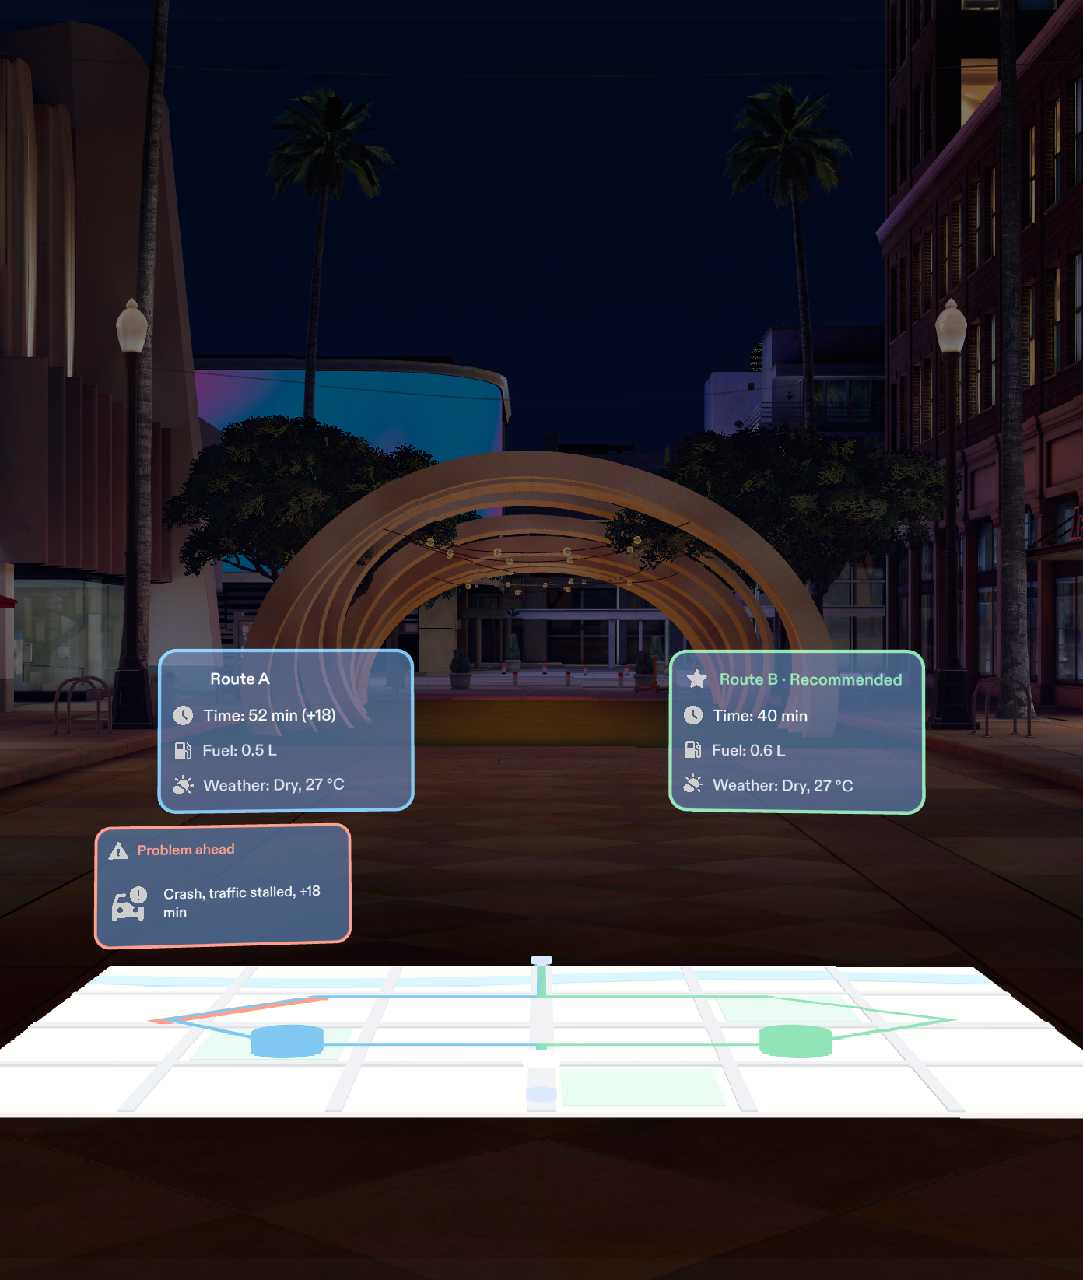
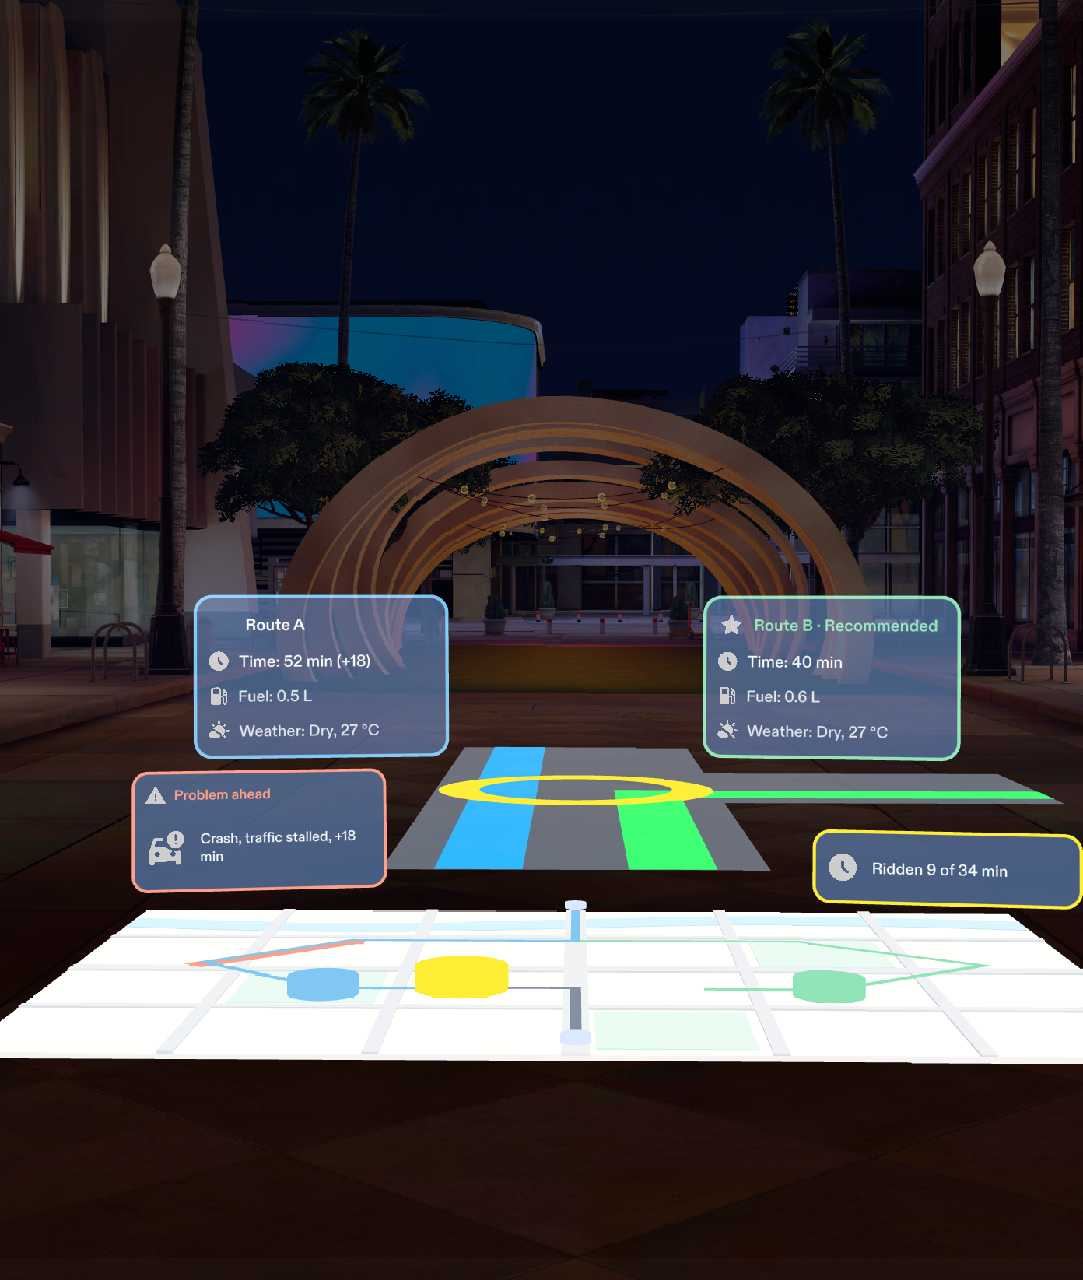
docs: describe the progress marks and road view in the README
The README now covers the whole of revision 1: nine LEAF tests (C1 to
C9) with the measured results, the progress marks and the mock street
in the walkthrough, the later alert point, and the known limitations
(the raincoat reminder covers part of the street, no glow on a reroute,
the street is a stand-in). The roadmap marks revision 1 done.

Files changed:
- README.md: status, walkthrough, tests table, architecture, decisions, limitations, roadmap
- docs/media/stopped-crash.jpg: retaken with the progress marks and road view
- docs/media/stopped-floating-map.jpg: retaken on the evening trip with the road view
- docs/media/raincoat-reminder.jpg: retaken, chosen stripe glowing and the other faded

diff --git a/README.md b/README.md
@@ -6,8 +6,8 @@
 
 Built for **Learn AR with SPECS, Round 2** (Devpost, sponsored by Snap Inc.). Planned with Devpost's `plan-lens` skill, built by an AI coding agent through Snap's CLAD plugin and the Lens Studio MCP, and demonstrated in Lens Studio's Interactive Preview. No Spectacles hardware is needed.
 
-> **Status: the Lens is built and all six LEAF tests (C1 to C6) pass in the Lens Studio Preview.**
-> Revision 1 is partly done: the table now shows only while planning, and the map floats when you stop. The progress marks and the route on the road ahead are not built yet (see the [Roadmap](#roadmap)).
+> **Status: the Lens is built and all nine LEAF tests (C1 to C9) pass in the Lens Studio Preview.**
+> Revision 1 is done: the table shows only while planning, the map floats when you stop, the map shows how far you have ridden, and both routes are also laid on a mock street ahead of you.
 > It has not been run on Spectacles hardware (none is available), and the demo video is not recorded yet. Everything below was run in the Preview unless it is marked _unverified_.
 
 ## Contents
@@ -33,7 +33,7 @@ Built for **Learn AR with SPECS, Round 2** (Devpost, sponsored by Snap Inc.). Pl
 The demo tells one day in two trips that reuse the same map, alert and stop:
 
 1. **Morning, at home.** A table is in the room and the map on it shows the trip to the office, with two routes compared by time, fuel and weather. The rider picks one.
-2. **On the road.** Nothing on screen, and no table. Then a chime and a short sentence: a crash ahead has stalled traffic, pull over to see options. The rider pulls over, and the map floats in front of them with the crash stretch highlighted and the faster reroute. They pinch it and arrive on time.
+2. **On the road.** Nothing on screen, and no table. Then a chime and a short sentence: a crash ahead has stalled traffic, pull over to see options. The rider pulls over, and the map floats in front of them with the part already ridden shown dim, a "you are here" marker, the crash stretch highlighted and the faster reroute. Both routes are also laid on the street ahead. They pinch a route, on the map or on the road, and arrive on time.
 3. **Evening, going home.** A rain alert comes before the rain zone. The rider pulls over, sees where the rain is and how bad it is, and either takes the dry reroute or stays on the route and is reminded to put on a raincoat.
 
 The Lens only ever shows content in two states, for safety: when the rider is planning and when they have stopped. While riding, it is silent except for short alerts.
@@ -76,19 +76,25 @@ While riding, nothing from the Lens is in view. When the route reaches a problem
 
 ### Stopped after the crash: see the problem, reroute
 
-![Stopped view: route A's crash stretch highlighted in coral, a "Problem ahead" card reading "Crash, traffic stalled, +18 min" above it, route A at 52 min (+18) and route B marked Recommended at 40 min.](docs/media/stopped-crash.jpg)
+![Stopped view: the floating map with route A's crash stretch highlighted in coral, a "Problem ahead" card reading "Crash, traffic stalled, +18 min", route A at 52 min (+18), route B marked Recommended at 40 min, a yellow you-are-here marker with the ridden stretch dim and a "Ridden 9 of 34 min" card, and above the map the mock street with a blue route A stripe, a green route B stripe turning right, and a yellow ring where they split.](docs/media/stopped-crash.jpg)
 
-Pressing **I've stopped** brings back the map, floating where it was with no table under it, with the full picture: the rest of the route, the crash stretch highlighted in coral, a card above it (*"Crash, traffic stalled, +18 min"*), and both options with updated numbers. Route B is now recommended. Pinching route B's dot says *"New route set"* and hides the map. Riding on to the end ends with *"You've arrived, on time."*
+Pressing **I've stopped** brings back the map, floating where it was with no table under it, with the full picture:
+
+- **Where I am.** The part of the route already ridden is drawn dim, a large yellow **you are here** marker sits at the rider's position (bigger than the home and office markers, in a colour no route uses), and a card says how far along the rider is (*"Ridden 9 of 34 min"*).
+- **What is ahead.** The rest of the route, the crash stretch highlighted in coral, a card above it (*"Crash, traffic stalled, +18 min"*), and both options with updated numbers. Route B is now recommended.
+- **The route on the road.** Both routes are also laid on a mock street on the floor ahead, as wide stripes in vivid blue (route A) and green (route B) on a muted grey street, with a pulsing yellow ring where they split. Route B turns off to the right at the junction. The street, the stripes and the map are all in view together and do not cover each other. This street is a stand-in: the real product would draw the route on the real road from the rider's location and heading, which the Preview cannot do.
+
+Aiming at a route's dot, its **Choose route** button or its stripe on the road brightens that stripe. Pinching a stripe chooses that route, exactly like pinching its dot: pinching route B says *"New route set"* and hides the map, the street and the cards. Riding on to the end ends with *"You've arrived, on time."*
 
 ### Evening: rain ahead and the raincoat reminder
 
 ![Stopped view on the evening trip: route A's rain stretch highlighted in amber, a "Weather ahead" card reading "Rain km 4–7: 24 °C, heavy, windy rain", route A marked Recommended with windy rain, and route B at 48 min (+12), dry. There is no table: the map floats.](docs/media/stopped-floating-map.jpg)
 
-On the way home, the alert is *"Rain on your route in 10 minutes. Pull over to see options."* Stopped, the rider sees the rain stretch in amber with its temperature, intensity and type, and a dry reroute that costs 12 minutes more.
+On the way home, the alert is *"Rain on your route in 10 minutes. Pull over to see options."* Stopped, the rider sees the rain stretch in amber with its temperature, intensity and type, a dry reroute that costs 12 minutes more, and the same progress marks and road view as in the morning (*"Ridden 11 of 36 min"*).
 
-![Raincoat reminder above the map: "Rain ahead. Put on your raincoat?" with Proceed and Raincoat on buttons; only route A and its rain stretch remain on the map.](docs/media/raincoat-reminder.jpg)
+![Raincoat reminder above the map: "Rain ahead. Put on your raincoat?" with Proceed and Raincoat on buttons; only route A and its rain stretch remain on the map, and on the road route A's stripe is bright while route B's has faded.](docs/media/raincoat-reminder.jpg)
 
-Choosing to stay on the rainy route shows a small reminder just above the map with **Proceed** and **Raincoat on**. Either one hides everything and returns to riding: the rider goes through the rain prepared, which is the point of being warned in time.
+Choosing to stay on the rainy route (by its dot or its stripe on the road) shows a small reminder just above the map with **Proceed** and **Raincoat on**. The chosen route's stripe on the road glows and the other one fades. Either button hides everything and returns to riding: the rider goes through the rain prepared, which is the point of being warned in time.
 
 ### The Ride simulator (preview only)
 
@@ -105,6 +111,7 @@ The Preview has no road, no GPS and no microphone, so a separate panel to the ri
 | Live traffic, weather and routing | Hard-coded sample data (see below) |
 | Spoken alerts and confirmations | The caption line at the bottom of the panel |
 | A real table or wall at home, or the map floating about 1 m ahead without one | A virtual table for the planning view at home. At the roadside the map floats, with no table |
+| The route drawn on the real road ahead | A mock street on the floor of the Preview room with both routes laid on it, shown only while stopped |
 
 The sample data lives in [`Assets/Scripts/TrafficInsightTripData.ts`](Assets/Scripts/TrafficInsightTripData.ts):
 
@@ -126,7 +133,11 @@ Each done criterion in the design brief has one [LEAF](https://developers.snap.c
 | C5 | Evening: rain stretch and a card with temperature, intensity and type; picking the rainy route shows the raincoat reminder; Proceed or Raincoat on hides it | **Pass** (both buttons tested) |
 | C6 | The virtual table is visible during the whole Planning state and hidden in every other state | **Pass** (checked at the start, during the clarifying question, with the map, then Riding, Alerted, Stopped, Arrived, and Planning again after "Go home") |
 
-C2 and C4 were extended for the table: C2 also checks that the table is off while riding, and C4 checks that the map floats with no table when stopped. Each check reads both the snapshot flag and the real `MapTable` object in the scene.
+| C7 | When stopped, the map is about 1 m ahead and a little below eye level, in view | **Pass** (measured from the rider's eye looking straight ahead: 110 cm ahead, 22.6 cm below eye level, centred, which is 11.6° below the horizon) |
+| C8 | When stopped, the ridden part is dim, with a clear "you are here" marker and a progress card | **Pass** (card reads "Ridden 9 of 34 min"; the ridden stretch is dimmer than the route ahead, 0.57 against 0.74; the marker is more than twice the home marker's size and bright yellow; all of it is gone once riding) |
+| C9 | When stopped, both routes are laid on the mock street in vivid colours with a pulsing ring; street and map do not cover each other; aiming at a dot, a button or a line brightens the line; pinching a line chooses that route; the chosen line glows and the other fades; riding hides it all | **Pass** (seen from the start position the street spans 4.9° to 8.6° below the horizon and the map 9.9° to 14.1°, so they do not overlap; stripes are 2.7° wide at the near end; aiming at route B's line, route A's dot and the Choose route B button each brighten the right line; pinching route B's side-road stripe says "New route set"; in the evening pinching route A's stripe asks about the raincoat with A chosen and B faded) |
+
+C2 and C4 were extended for the table: C2 also checks that the table is off while riding, and C4 checks that the map floats with no table when stopped. Each check reads both the snapshot flag and the real `MapTable` object in the scene. C7 and C9 measure from the rider's eye position looking straight ahead, so they give the same answer even if the Preview's camera has been turned. C3 changed only because the alert now comes later in the trip (see the design decisions below).
 
 What the tests cannot check, and so remains unverified:
 
@@ -134,7 +145,7 @@ What the tests cannot check, and so remains unverified:
 - **The icon's size on screen and its fade.** Its position and timing are tested; its look was checked by eye in the screenshot above.
 - **Reach and comfort on real glasses**, and anything about riding a real motorcycle.
 
-To run them: open the project in Lens Studio, open the LEAF panel, and run C1 to C6 against the Preview.
+To run them: open the project in Lens Studio, open the LEAF panel, and run C1 to C9 against the Preview.
 
 ## Why it belongs on glasses
 
@@ -163,11 +174,13 @@ flowchart LR
 ```mermaid
 flowchart LR
     SIM["Ride simulator panel\n(buttons, preview only)"] --> MAIN
-    DOTS["Route dots\n(pinch)"] --> MAIN
+    DOTS["Route dots\n(pinch, aim)"] --> MAIN
+    LINES["Route stripes on the road\n(pinch, aim)"] --> MAIN
     MAIN["TrafficInsightMain\nwires input to state"] --> STATE["TrafficInsightState\nthe rules, no scene code"]
     STATE -->|snapshot| MAIN
-    MAIN --> MAP["Route map\nlines, highlight, dots"]
-    MAIN --> CARDS["Lens cards\nlabels, problem card,\nreminder, alert icon"]
+    MAIN --> MAP["Route map\nlines, highlight, dots,\nridden stretch, you-are-here"]
+    MAIN --> ROAD["Road view\nmock street, stripes, ring"]
+    MAIN --> CARDS["Lens cards\nlabels, problem card, progress card,\nreminder, alert icon"]
     MAIN --> AUDIO["Audio + captions"]
     MAIN --> LEAF["getState()\nfor LEAF tests"]
 ```
@@ -179,8 +192,10 @@ Every press goes to one place, `TrafficInsightState`, a plain state machine with
 | `TrafficInsightState.ts` | The five states, every transition, and which parts are visible in each (including the table) |
 | `TrafficInsightTripData.ts` | Sample routes per trip and the "Recommended" rule |
 | `TrafficInsightMain.ts` | Connects input to the state, redraws the views (and shows or hides the table), runs the 2 s alert timer |
-| `TrafficInsightRouteMap.ts` | Builds the route lines, problem highlight and pinchable dots at runtime |
-| `TrafficInsightTrafficLensUI.ts` | The Lens layer: label cards, problem card, raincoat reminder, alert icon (UI Kit) |
+| `TrafficInsightRouteMap.ts` | Builds the route lines, problem highlight, dim ridden stretch, "you are here" marker and pinchable dots at runtime |
+| `TrafficInsightRoadView.ts` | Builds the mock street, the two route stripes (aimable and pinchable) and the pulsing ring at runtime |
+| `TrafficInsightGeometry.ts` | The small mesh helpers the map and the road view share (ribbon, puck, ring, rectangle) |
+| `TrafficInsightTrafficLensUI.ts` | The Lens layer: label cards, problem card, progress card, raincoat reminder, alert icon (UI Kit) |
 | `TrafficInsightRideSimulatorUI.ts` | The demo panel (UI Kit) |
 | `TrafficInsightLazyFollow.ts` | Lets the alert icon follow the head gently |
 | `TrafficInsightAudioController.ts` | Plays the four sound effects |
@@ -193,6 +208,10 @@ These changed a default number from the brief, or settled something the brief le
 - **Mid-tone panels with white text.** The first version used near-white panels with light text, which could not be read. The Spectacles display is additive (black shows as transparent), so the panels are now a mid-tone slate blue (the Lens) or warm grey (the simulator): light enough to show, dark enough for white text to read.
 - **The problem card floats just above the highlighted stretch**, not on top of it, so the card never hides the stretch it describes.
 - **Captions carry every spoken line.** See [Known limitations](#known-limitations).
+- **The alert comes later in the trip.** It was at 10% of the route, so the "ridden" stretch was too short to see. It is now at 25% (about 9 of 34 minutes), which also puts the rider before the crash stretch and clear of route A's dot, so the marker never hides a dot.
+- **The street is far enough away to sit above the map.** Near the rider it ran behind and under the floating map, so the street starts about 10.5 m ahead, is 2.2 m wide and 8 m long, and its floor is 1.6 m below eye level. That puts the whole street above the map in the view, clear of the cards. The stripes are 50 cm wide, which is 2.7° across at the near end (the brief asked for at least about 2°), and about 1.5° at the far end.
+- **The "you are here" marker is yellow.** No route or problem colour is yellow, so it cannot be mistaken for one. The progress card has the same yellow border.
+- **Stripes can be pinched, with one caveat.** Pinching a stripe works in the LEAF tests and picks the route like the dot. Whether a long thin target several metres away is easy to hit by hand is untested, so the dots and the Choose route buttons stay the dependable way to choose.
 - **Sample numbers.** The brief fixed the crash delay (+18 min), the rain details and the reroute cost (+12 min). The other route times and fuel values are defaults chosen during the build.
 
 ## Known limitations
@@ -200,6 +219,9 @@ These changed a default number from the brief, or settled something the brief le
 - **Riding with AR glasses is unproven.** No study of AR glasses on motorcycles was found, and there is no Snap guidance about vehicles. The three-state design follows car and helmet head-up display research; whether it is safe on a real bike can only be found out by real-world testing.
 - **No spoken voice.** The Lens plays its chime and tones, but the text-to-speech module is deprecated in this SDK, so the spoken lines appear as captions on the simulator panel instead. The brief planned captions as the fallback for exactly this case.
 - **Preview only.** Hand tracking, comfort over time and readability in daylight are untested on real Spectacles.
+- **The road view is a stand-in.** It is a model of a street in the Preview room. How accurately a route line would sit on a real road, and how it would look in daylight, is untested.
+- **The raincoat reminder covers part of the street.** The brief puts the reminder just above the map, and it also says the street and the map must not cover each other. In the raincoat step the reminder hides the upper part of the street (the stripes stay visible below it). This is a conflict inside the brief that needs a design decision, for example moving the reminder below the map.
+- **No glow on a reroute.** Choosing route B while stopped goes straight back to riding, so everything hides at once and the stripe's glow is never seen. The glow and the faded stripe show in the raincoat step, where the rider stays stopped after choosing.
 - **Tooling left in the scene.** The scene contains an `AiPreviewAgent Handler` object, added by the Lens Studio preview tools the agent used. It renders nothing and may be removed before submission.
 
 ## Repository layout
@@ -208,7 +230,7 @@ These changed a default number from the brief, or settled something the brief le
 |---|---|
 | `TrafficInsight.esproj` | The Lens Studio project file |
 | `Assets/Scripts/` | The Lens's TypeScript components (see [Inside the Lens](#inside-the-lens)) |
-| `Assets/Tests/` | LEAF scenarios C1 to C6 and their shared driver |
+| `Assets/Tests/` | LEAF scenarios C1 to C9 and their shared driver |
 | `Assets/GeneratedMeshes/`, `Assets/GeneratedSFX/` | The table and city map models and the four sound effects, all made in code (no third-party assets) |
 | `Assets/Icons/`, `Assets/Materials/` | Material icons and the route line material |
 | `Packages/` | Spectacles Interaction Kit (SIK), UI Kit, Motion and Icons from the Base Template; LEAF; and the Lens Studio preview-agent helpers. Stored with Git LFS |
@@ -285,11 +307,11 @@ Problems that came up while setting up and building this project on Windows 11. 
 - [x] Pin the `plan-lens` skill
 - [x] Brainstorm the idea
 - [x] Run `plan-lens` and approve `devpost/design-brief.md`
-- [x] Build with CLAD and test with LEAF (C1 to C5 pass in the Preview)
+- [x] Build with CLAD and test with LEAF (C1 to C5 passed at the first build)
 - [x] Screenshots in `docs/media/` and the feature walkthrough
-- [x] Revision 1, part 1: the table shows only while planning, and the map floats when stopped (C6 added; C1 to C6 pass)
-- [ ] Revision 1, part 2: progress along the path (the ridden part dim, a "you are here" marker, a progress card)
-- [ ] Revision 1, part 3: the route marked on the road ahead (a mock street with pinchable route lines)
+- [x] Revision 1, part 1: the table shows only while planning, and the map floats when stopped (C6)
+- [x] Revision 1, part 2: progress along the path (the ridden part dim, a "you are here" marker, a progress card) (C8, with the map placement check C7)
+- [x] Revision 1, part 3: the route marked on the road ahead (a mock street with pinchable route lines) (C9; C1 to C9 pass)
 - [ ] Judge in the Preview and iterate
 - [ ] Parked for later: a brief glance at the route while riding (see [docs/backlog.md](docs/backlog.md))
 - [ ] Demo video and Devpost submission (deadline: Dec 7, 5:00 PM ET)
